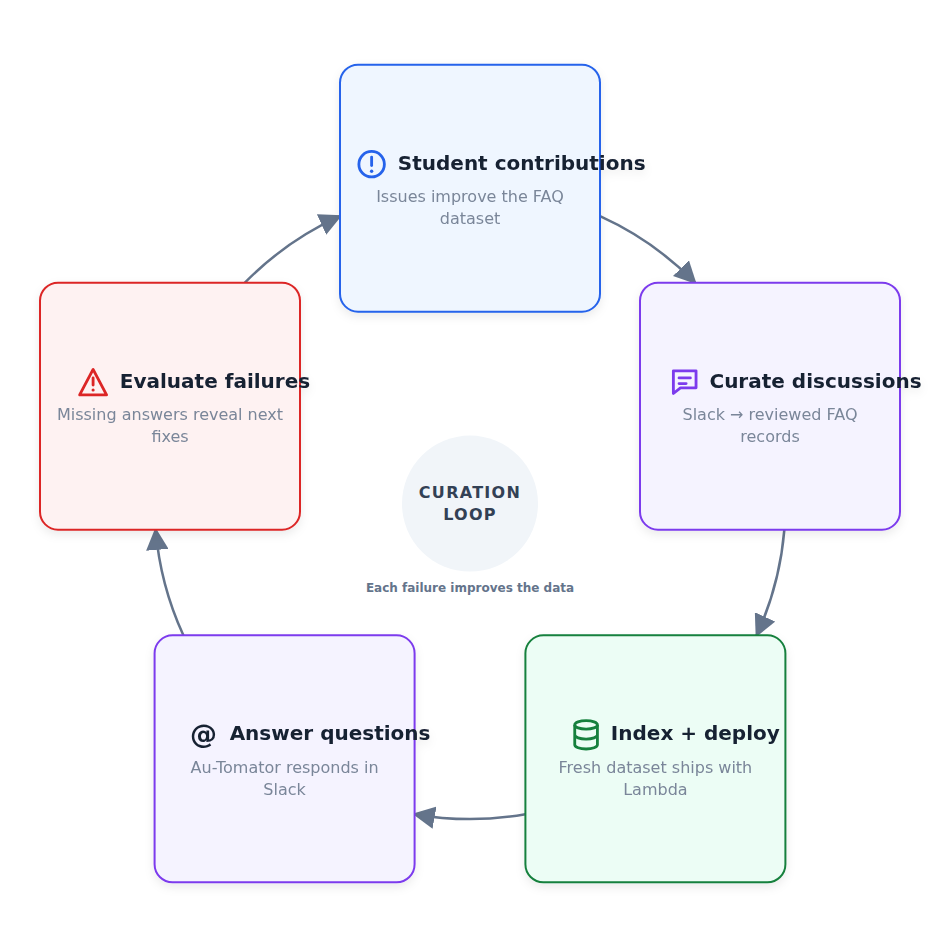
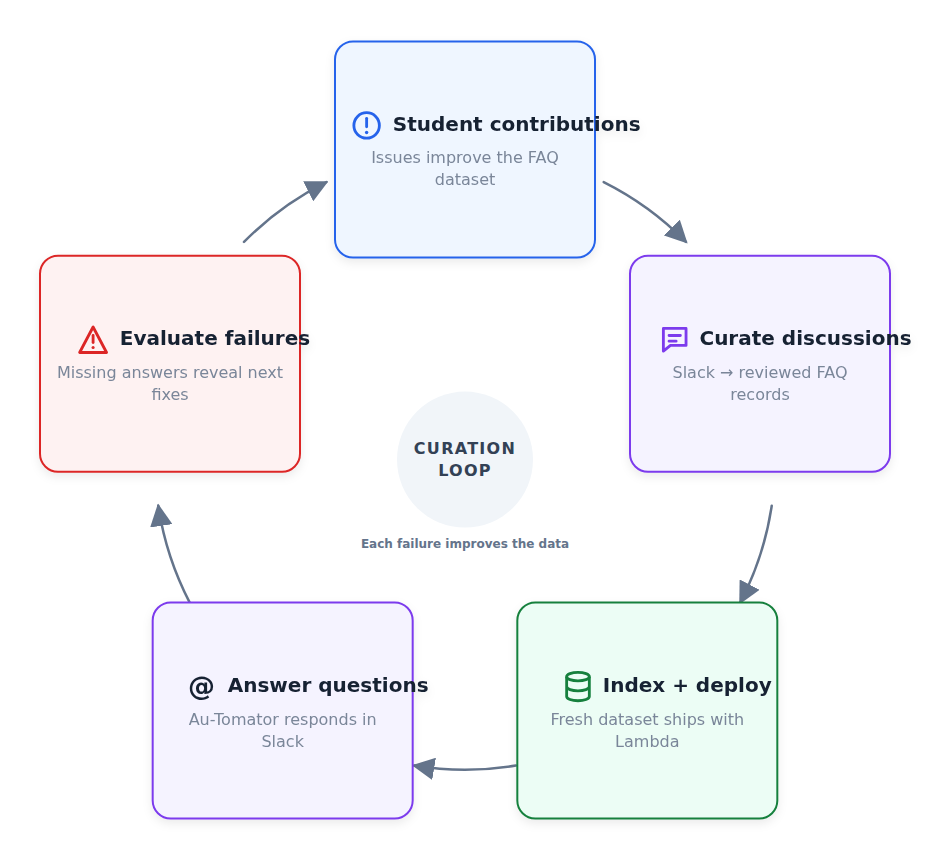
Make equal-length ring connectors structural, not a tolerance
Equal arrows kept coming back as a defect because they were only ever
checked against a tolerance - and a 10 percent tolerance still ships
arrows the eye reads as different. Worse, equality was a property of the
card shape, so it broke again every time a card changed.

Every connector now spans one shared angle, centred in its slot: one arc
of one circle rotated into place. Chord spread across a five-node loop
measures 0.002px. No card size can produce a ring of mixed lengths.

The price is that equal length and exact contact cannot both hold for
rectangles on a circle - a rectangle covers a different angle at each slot
unless it is exactly square, so a sweep sized to clear the widest case
leaves the narrowest ends short. Measured floor is about 22px. Equal
length wins, because a 30px gap is far less visible than one arrow half
the length of its neighbour, and the gap is bounded at 42px with the card
height that closes it named in the error.

Rubric criteria 2 and 3 rewritten around this, including the conflict.
Tests assert chords equal within 0.5px across three card shapes, and that
a card no sweep can reach is rejected.

diff --git a/tests/test_renderer.py b/tests/test_renderer.py
@@ -19,7 +19,7 @@ STEP_EDGE = re.compile(
 )
 
 
-def ring_spec(width, height, *, count=5, margin=None, card=(220, 205)):
+def ring_spec(width, height, *, count=5, margin=None, card=(170, 140)):
     layout = {"type": "ring", "card_width": card[0], "card_height": card[1]}
     if margin is not None:
         layout["margin"] = margin
@@ -431,8 +431,20 @@ def ring_arcs(svg):
     ]
 
 
-def test_ring_connectors_touch_the_cards_they_join(tmp_path):
-    spec = ring_spec(1040, 1010)
+def test_ring_connectors_are_all_the_same_length(tmp_path):
+    # Every connector spans one shared angle centred in its slot, so equal
+    # arrows are structural - no card size can produce a ring of mixed lengths.
+    output = tmp_path / "loop.svg"
+    for card in ((170, 140), (150, 150), (190, 130)):
+        render_diagram(ring_spec(726, 673, card=card), output)
+        arcs = ring_arcs(output.read_text())
+        chords = [math.hypot(a[3] - a[0], a[4] - a[1]) for a in arcs]
+        assert max(chords) - min(chords) < 0.5, card
+        assert max(a[2] for a in arcs) - min(a[2] for a in arcs) < 0.01, card
+
+
+def test_ring_connectors_reach_the_cards_they_join(tmp_path):
+    spec = ring_spec(726, 673)
     output = tmp_path / "loop.svg"
 
     render_diagram(spec, output)
@@ -441,7 +453,7 @@ def test_ring_connectors_touch_the_cards_they_join(tmp_path):
     arcs = ring_arcs(svg)
     assert len(arcs) == 5
     boxes = [
-        (x, y, x + 220, y + 205) for x, y in (map(float, n) for n in NODE_TRANSFORM.findall(svg))
+        (x, y, x + 170, y + 140) for x, y in (map(float, n) for n in NODE_TRANSFORM.findall(svg))
     ]
 
     def off_card(point):
@@ -452,11 +464,11 @@ def test_ring_connectors_touch_the_cards_they_join(tmp_path):
             for x0, y0, x1, y1 in boxes
         )
 
-    # Each end stops where the circle crosses a card's edge, so it meets the card
-    # rather than floating off it.
+    # One shared sweep means the ends needing least room stop a little short;
+    # the renderer bounds how far, so no connector visibly floats.
     for start_x, start_y, _, end_x, end_y in arcs:
-        assert off_card((start_x, start_y)) < 1.5
-        assert off_card((end_x, end_y)) < 1.5
+        assert off_card((start_x, start_y)) <= 42
+        assert off_card((end_x, end_y)) <= 42
 
 
 def test_block_icons_fill_a_square_card_better_than_inline(tmp_path):
@@ -497,32 +509,16 @@ def test_block_icons_fill_a_square_card_better_than_inline(tmp_path):
     assert content_height("block") / 165 > 0.5  # a square card is otherwise mostly empty
 
 
-def test_ring_rejects_connectors_of_different_lengths(tmp_path):
-    # A card presents a different angular width at each slot unless it is close
-    # to square, so a wide flat one makes the bottom arc far shorter than the
-    # top. That is the most visible way a loop stops reading as one circle, so
-    # the renderer refuses it rather than leaving it to whoever picks the size.
-    spec = ring_spec(1040, 1010, card=(220, 90))
-
-    with pytest.raises(SpecError, match="ring connectors differ in length"):
-        render_diagram(spec, tmp_path / "loop.svg")
-
-
-def test_ring_error_names_a_card_height_that_evens_the_connectors(tmp_path):
-    with pytest.raises(SpecError) as failure:
-        render_diagram(ring_spec(1040, 1010, card=(220, 90)), tmp_path / "loop.svg")
-    suggested = float(re.search(r"card_height of about (\d+)", str(failure.value)).group(1))
-
-    # Taking the advice produces a diagram that renders.
-    output = tmp_path / "fixed.svg"
-    render_diagram(ring_spec(1040, 1010, card=(220, suggested)), output)
-
-    chords = [math.hypot(a[3] - a[0], a[4] - a[1]) for a in ring_arcs(output.read_text())]
-    assert (max(chords) - min(chords)) / min(chords) <= 0.10
+def test_ring_rejects_a_card_its_connectors_cannot_reach(tmp_path):
+    # A very flat card covers a wide angle at the sides and a narrow one at the
+    # top, so one shared sweep leaves the narrow ends far short. The renderer
+    # refuses rather than shipping connectors that visibly float.
+    with pytest.raises(SpecError, match="short of its card"):
+        render_diagram(ring_spec(1040, 1010, card=(220, 55)), tmp_path / "loop.svg")
 
 
 def test_center_detail_sits_clear_of_the_annotation_circle(tmp_path):
-    spec = ring_spec(1040, 1010)
+    spec = ring_spec(726, 673)
     output = tmp_path / "loop.svg"
 
     render_diagram(spec, output)
@@ -537,13 +533,13 @@ def test_center_detail_sits_clear_of_the_annotation_circle(tmp_path):
 
 
 def test_ring_layout_centers_the_annotation_on_the_circle(tmp_path):
-    spec = ring_spec(1040, 1010)
+    spec = ring_spec(726, 673)
     output = tmp_path / "loop.svg"
 
     render_diagram(spec, output)
 
     svg = output.read_text()
-    center_x, center_y = ring_center(ring_card_centers(svg, 220, 205))
+    center_x, center_y = ring_center(ring_card_centers(svg, 170, 140))
     annotation = re.search(r'<circle class="center-annotation" cx="([-\d.]+)" cy="([-\d.]+)"', svg)
     assert annotation is not None
     assert (float(annotation.group(1)), float(annotation.group(2))) == pytest.approx(
@@ -575,10 +571,10 @@ def test_ring_layout_rejects_a_canvas_that_overlaps_cards(tmp_path):
 
 def test_ring_layout_margin_shrinks_the_circle(tmp_path):
     def radius(margin):
-        spec = ring_spec(1040, 1010, margin=margin)
+        spec = ring_spec(900, 840, margin=margin)
         output = tmp_path / f"loop-{margin}.svg"
         render_diagram(spec, output)
-        centers = ring_card_centers(output.read_text(), 220, 205)
+        centers = ring_card_centers(output.read_text(), 170, 140)
         center_x, center_y = ring_center(centers)
         return math.hypot(centers[0][0] - center_x, centers[0][1] - center_y)
 
@@ -687,8 +683,8 @@ def test_titles_share_one_size_rather_than_being_squeezed(tmp_path):
     # while leaving its neighbour untouched - visibly different letterforms.
     spec = DiagramSpec.from_dict(
         {
-            "canvas": {"width": 900, "height": 856},
-            "layout": {"type": "ring", "card_width": 230, "card_height": 216},
+            "canvas": {"width": 726, "height": 673},
+            "layout": {"type": "ring", "card_width": 170, "card_height": 140},
             "nodes": [
                 {"id": "a", "title": "Interview", "icon": "message"},
                 {"id": "b", "title": "Apply", "icon": "document"},
@@ -716,7 +712,7 @@ def test_titles_share_one_size_rather_than_being_squeezed(tmp_path):
 
     size = int(sizes.pop())
     for title in ("Interview", "Apply", "Build", "Network", "Reflect"):
-        assert _text_width(title, size, TITLE_WEIGHT) <= 230 - 32
+        assert _text_width(title, size, TITLE_WEIGHT) <= 170 - 32
 
 
 @pytest.mark.parametrize("source", EXAMPLE_SPECS, ids=lambda path: path.stem)

diff --git a/diagram_creator/renderer.py b/diagram_creator/renderer.py
@@ -58,10 +58,14 @@ RING_MARGIN = 40
 RING_EDGE_GAP = 0
 RING_ARC_SAMPLES = 240
 RING_CARD_GAP = 24
-# How much the ring's connectors may differ in length before the diagram is
-# rejected. Unequal arrows are the most visible way a loop stops reading as one
-# circle, so this is enforced rather than left to whoever picks the card size.
-RING_CHORD_TOLERANCE = 0.10
+# Every connector spans the same angle, so unequal arrows are impossible by
+# construction. The floor keeps a very tight ring from collapsing its arcs.
+RING_MIN_SWEEP = 0.15
+# How far a connector may stop short of the card it joins. One shared sweep makes
+# every connector identical, and the price is that the ends needing less room stop
+# a little short. About 22px is the floor for any usable card, so this is set just
+# above it - tight enough to force a sane card shape, loose enough to be reachable.
+RING_REACH_TOLERANCE = 42.0
 STAIRCASE_MARGIN = 40
 STAIRCASE_STEP_GAP = 18
 # The tightest horizontal advance, as a share of the card width. Cards may
@@ -708,31 +712,38 @@ def _check_ring_chords(spec: DiagramSpec, ring: Ring, boxes: dict[str, Box]) -> 
     than the arc over the top. Squaring the card up is the fix, so the error says
     which height would do it.
     """
-    lengths = _ring_chords(spec, ring, boxes)
-    if not lengths or min(lengths) <= 0:
-        return
-    spread = (max(lengths) - min(lengths)) / min(lengths)
-    if spread <= RING_CHORD_TOLERANCE:
+    span = 2 * math.pi / ring.count
+    sweep = _ring_sweep(spec, ring, boxes)
+    worst = 0.0
+    for index, node in enumerate(spec.nodes):
+        angle = ring.angle(index)
+        for direction in (1, -1):
+            own = abs(_ring_exit(ring, boxes[node.id], angle, direction * span) - angle)
+            worst = max(worst, ((span - sweep) / 2 - own) * ring.radius)
+    if worst <= RING_REACH_TOLERANCE:
         return
     width = spec.layout.card_width or 260
     suggestion = _ring_even_height(spec, ring, boxes, width)
     advice = (
-        f"; card_height of about {suggestion:.0f} evens them out"
+        f"; card_height of about {suggestion:.0f} closes it"
         if suggestion is not None
         else "; use a squarer card"
     )
     raise SpecError(
-        f"ring connectors differ in length by {spread:.0%} "
-        f"(longest {max(lengths):.0f}px, shortest {min(lengths):.0f}px){advice}"
+        f"ring connectors are all the same length, but the slackest stops "
+        f"{worst:.0f}px short of its card{advice}"
     )
 
 
 def _ring_even_height(
     spec: DiagramSpec, ring: Ring, boxes: dict[str, Box], width: float
 ) -> float | None:
-    """The card height that brings the connectors closest to equal length."""
-    # Only heights that could hold a card's content are worth suggesting; a
-    # sliver of a card also evens the arcs out, and is no use to anyone.
+    """The card height at which one shared sweep still reaches every card.
+
+    Only heights that could hold a card's content are worth suggesting; a sliver
+    of a card also reaches everywhere, and is no use to anyone.
+    """
+    slot = 2 * math.pi / ring.count
     best: tuple[float, float] | None = None
     for step in range(30, 251):
         candidate = width * step / 100
@@ -740,13 +751,18 @@ def _ring_even_height(
             key: Box(box.center_x - width / 2, box.center_y - candidate / 2, width, candidate)
             for key, box in boxes.items()
         }
-        lengths = _ring_chords(spec, ring, trial)
-        if min(lengths) <= 0:
-            continue
-        spread = (max(lengths) - min(lengths)) / min(lengths)
-        if best is None or spread < best[0]:
-            best = (spread, candidate)
-    return None if best is None or best[0] > RING_CHORD_TOLERANCE else best[1]
+        reaches = [
+            abs(
+                _ring_exit(ring, trial[node.id], ring.angle(index), direction * slot)
+                - ring.angle(index)
+            )
+            for index, node in enumerate(spec.nodes)
+            for direction in (1, -1)
+        ]
+        worst = (max(reaches) - min(reaches)) * ring.radius
+        if best is None or worst < best[0]:
+            best = (worst, candidate)
+    return None if best is None or best[0] > RING_REACH_TOLERANCE else best[1]
 
 
 def _ring_layout(spec: DiagramSpec, width: int, height: int) -> dict[str, Box]:
@@ -1083,14 +1099,33 @@ def _ring_path(
         # The circle leaves a card past its corner, so following it would sag
         # behind the cards. Join the facing sides instead, on the ring's radius.
         return _ring_chord_arc(edge, boxes, ring)
-    # Each end stops exactly where the circle crosses that card's edge, so every
-    # connector meets the cards it joins. Equal arc lengths then come from the
-    # card proportions - see the ring section of the skill for the ratio.
-    start = _ring_exit(ring, boxes[edge.source], ring.angle(source_index), span)
-    end = _ring_exit(ring, boxes[edge.target], ring.angle(source_index) + span, -span)
+    # Every connector spans the same angle, centred in its slot, so all of them
+    # are one arc of one circle rotated into place - identical length by
+    # construction rather than by luck of the card proportions.
+    sweep = _ring_sweep(spec, ring, boxes)
+    middle = ring.angle(source_index) + span / 2
+    start, end = middle - sweep / 2, middle + sweep / 2
     radius = _number(ring.radius)
     path = f"M{_point(ring.point(start))}A{radius} {radius} 0 0 1 {_point(ring.point(end))}"
-    return path, ring.point((start + end) / 2)
+    return path, ring.point(middle)
+
+
+def _ring_sweep(spec: DiagramSpec, ring: Ring, boxes: dict[str, Box]) -> float:
+    """The one angle every connector spans: the widest that clears every card.
+
+    A card covers a different angle at each slot unless it is exactly square, so
+    letting each connector stop at its own card makes them different lengths. One
+    sweep for all of them trades that for a small, even gap at the ends that need
+    less room, which is far less visible than arrows of different lengths.
+    """
+    span = 2 * math.pi / ring.count
+    standoff = 0.0
+    for index, node in enumerate(spec.nodes):
+        box = boxes[node.id]
+        angle = ring.angle(index)
+        for direction in (1, -1):
+            standoff = max(standoff, abs(_ring_exit(ring, box, angle, direction * span) - angle))
+    return max(span - 2 * standoff, span * RING_MIN_SWEEP)
 
 
 def _ring_arcs_are_clean(spec: DiagramSpec, ring: Ring, boxes: dict[str, Box]) -> bool:

diff --git a/skills/diagram-creator/rubric.md b/skills/diagram-creator/rubric.md
@@ -49,39 +49,35 @@ right and every riser the same distance down, and no two steps share a row.
 Check: the spread of consecutive `x` advances and of consecutive `y` advances,
 both under 0.5 px; every riser at least the card height.
 
-### 2. Connectors are one arc repeated
+### 2. Connectors are all the same length
 
-Every connector in a loop is the same arc of the same circle, only rotated -
-identical radius and identical length. Curvature and length are both things the
-eye compares, so a connector that is shorter, or on a tighter radius, reads as a
-different shape even when its endpoints are right.
+In a loop, every arrow between one node and the next is identical: same radius,
+same length, same curvature. Different lengths are the single most visible way a
+cycle stops reading as one circle, and the eye compares length before anything
+else.
 
-The renderer enforces this: a ring whose connectors differ in length by more
-than 10 percent is rejected, with the card height that would even them out.
+This is structural in the renderer, not a tolerance. Every connector spans one
+shared angle, centred in its slot, so no card size can produce a ring of mixed
+lengths. Chord spread measures 0.002 px across a five-node loop.
 
-Check: chord length and arc radius of every connector. Radius spread under
-0.5 px always; chord spread under 10 percent, or it will not render.
+Check: chord length and arc radius of every connector. Chord spread under 0.5 px,
+radius spread under 0.01 px. Anything larger means the shared sweep has been
+bypassed and is a bug, not a tuning problem.
 
-Equal chords and touching cards pull against each other. Forcing one shared
-angular standoff makes the chords identical but then only the card needing the
-widest standoff is actually touched. Touching every card is the one to keep, and
-chord equality then depends on the card shape: a card presents a different
-angular width at each slot unless it is close to square. It converges near
-h = 0.95w, but that ratio also brings adjacent cards almost together, so aim for
-square-ish rather than exact.
+### 3. Connectors reach the cards they join
 
-The same applies to a staircase, where every connector should be one elbow
-translated: identical horizontal run, identical vertical run, identical corner
-radius.
+A connector that stops visibly short reads as broken.
 
-### 3. Connectors touch the cards they join
+One shared sweep and exact contact at both ends cannot both hold. A rectangle
+covers a different angle at each slot on the circle unless it is exactly square,
+so a sweep sized to clear the widest case leaves the narrowest ends a little
+short. Measured floor is about 22 px for any card that can hold content, and
+typical shapes land in the thirties. Equal length wins - a 30 px gap is far less
+visible than one arrow half the length of its neighbour - and the renderer bounds
+the gap at 42 px, rejecting anything worse with the card height that closes it.
 
-A connector meets the card at each end. A connector that stops short reads as
-broken, and the gap is more visible than any amount of curvature polish.
-
-Check: each endpoint sits on a card's outline, within about a pixel. Bisect for
-the crossing rather than sampling it - stepping along the arc leaves the
-endpoint off by the step size, which is a visible pixel or two at ring scale.
+Check: distance from each endpoint to the nearest card outline, at most 42 px.
+The error names the card height that minimises it.
 
 ### 4. Nodes are clearly separated
 
@@ -255,7 +251,9 @@ tuning rather than chasing each complaint in turn:
 
 - Even gaps (4) want cards small relative to the radius. Short connectors and a
   compact canvas want the opposite.
-- Equal chords (2) want a square-ish card. Even gaps (4) want a wide flat one.
+- Equal length (2) and exact contact (3) cannot both hold for rectangles on a
+  circle. The renderer resolves this one for you: length is guaranteed, contact
+  is bounded.
 - A compact canvas reads better on a phone - it is scaled down less, so every
   size on it survives - but leaves less room for everything else.
 
